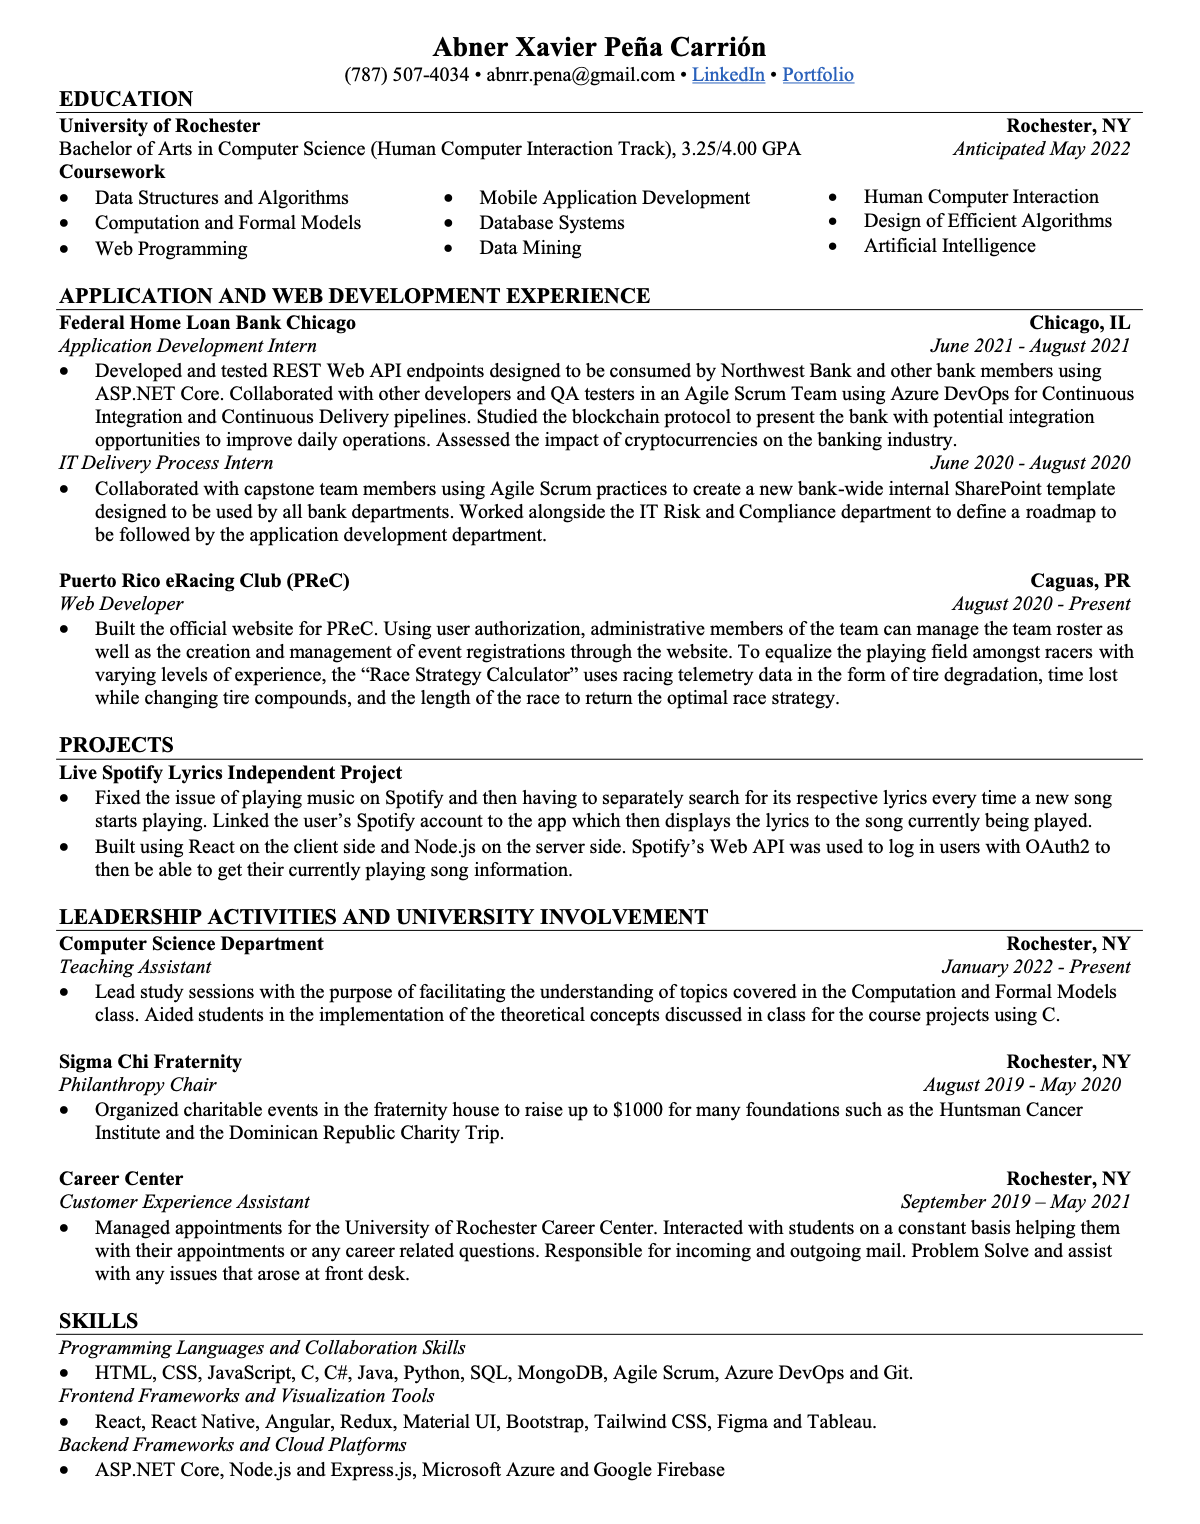
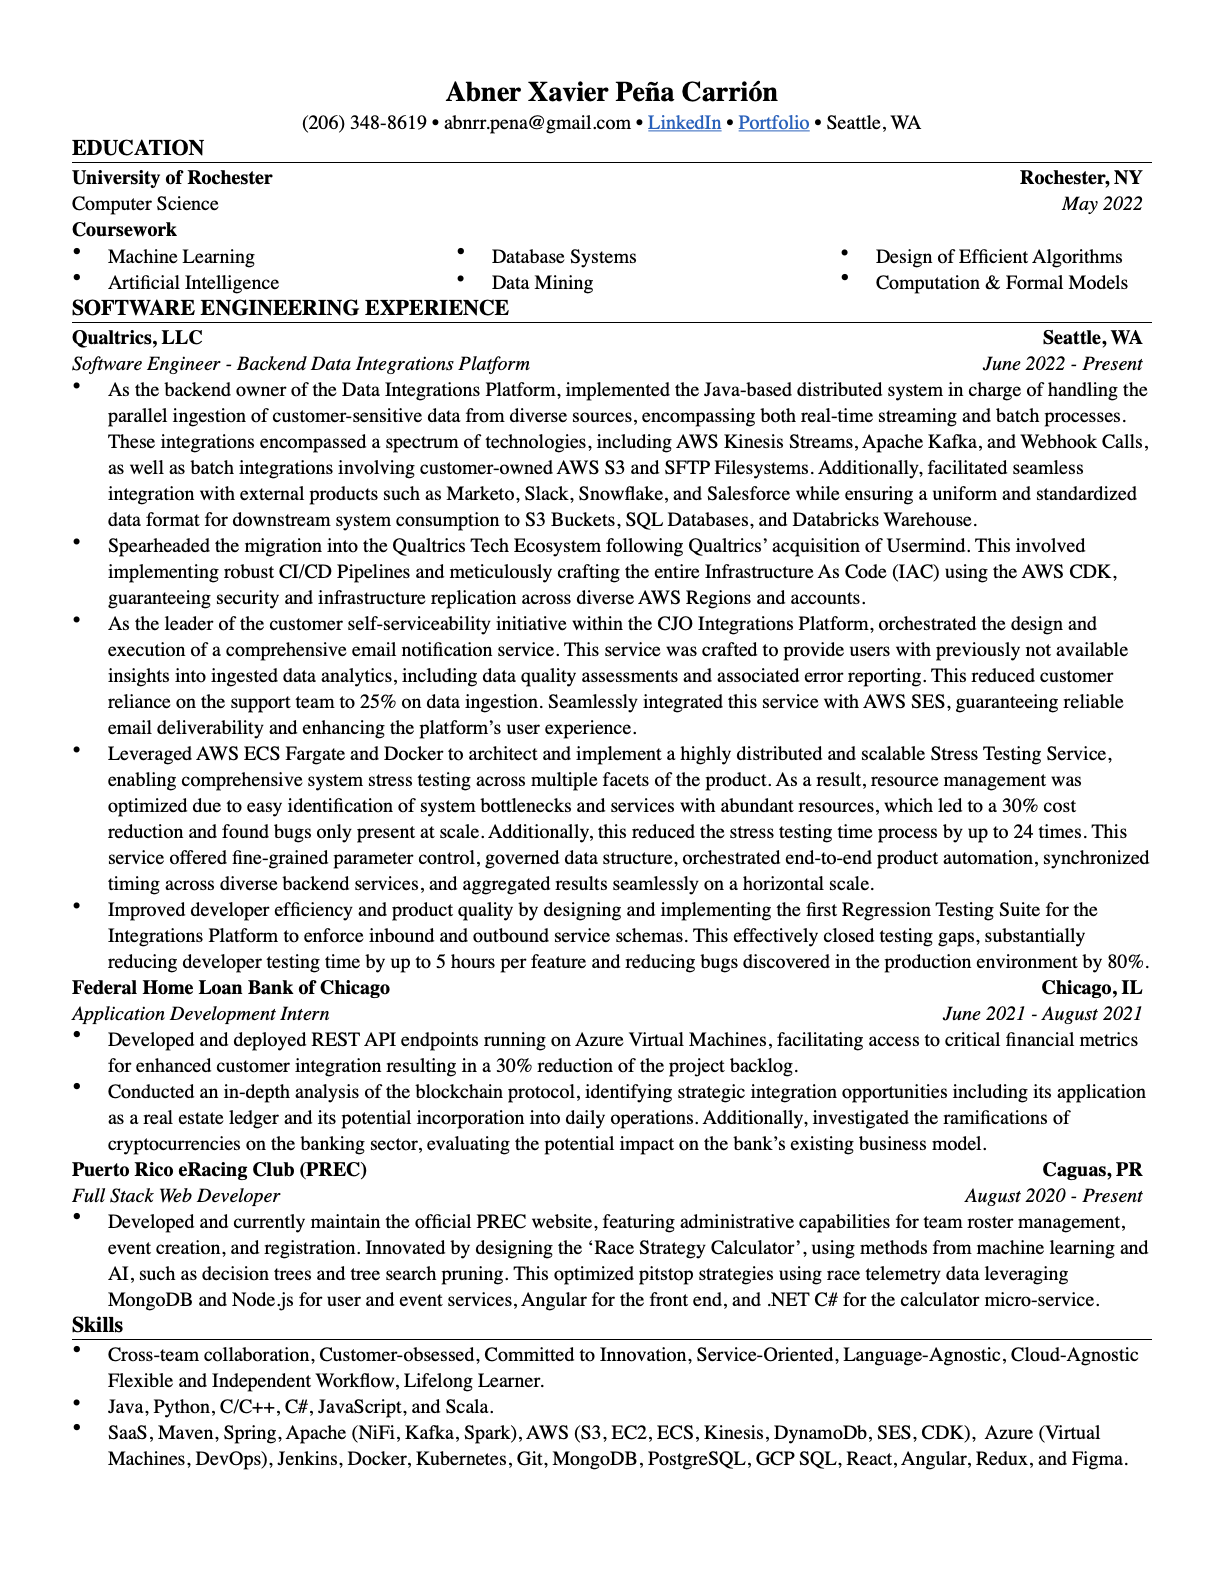
Added new Resume, Description and Portrait

Changed region(s): [[0.0308, 0.0308, 0.9558, 0.9869]]

diff --git a/src/components/Home/Home.js b/src/components/Home/Home.js
@@ -6,11 +6,12 @@ function Home() {
     <div className="home">
       <h1 className="home__title">Hi, I'm Abner.</h1>
       <p className="home__paragraph">
-        I am a Full Stack developer from Caguas, Puerto Rico, currently
-        finishing my Bachelors degree in Computer Science at the University of
-        Rochester. I am passionate about automation, Machine Learning, finance,
-        motorsports and fitness. In my free time, I enjoy listening to my
-        favorite podcasts and teching myself new technologies.
+        I am a Backend Software Engineer based in Seattle, WA currently 
+        working in the Customer Journey Optimizer product in Qualtrics.
+        I am passionate about automation, Machine Learning, finance,
+        motorsports and fitness. In my free time, I enjoy listening to 
+        podcasts from <a target="_blank" href="https://lexfridman.com/podcast/">Lex Fridman</a>  and <a target="_blank" href="https://hubermanlab.com/">Andrew Huberman</a> as 
+        well as teaching myself new technologies.
       </p>
       <p className="home__paragraph">
         My most recent project is Puerto Rico eRacing Club’s website, where I
